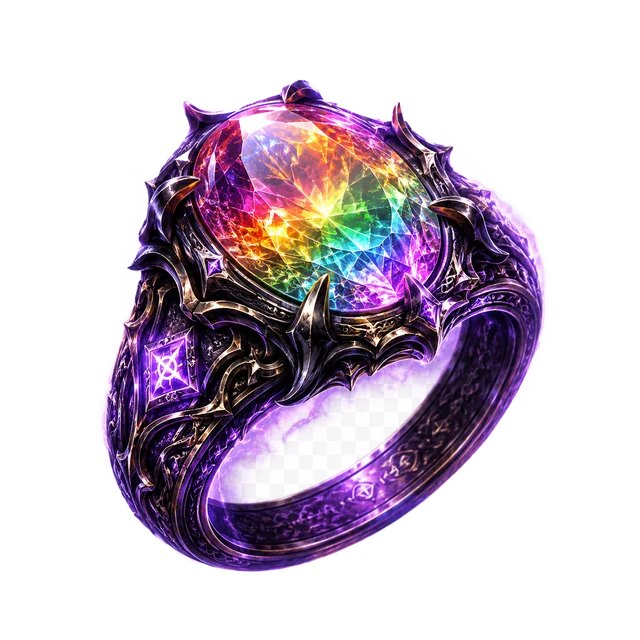
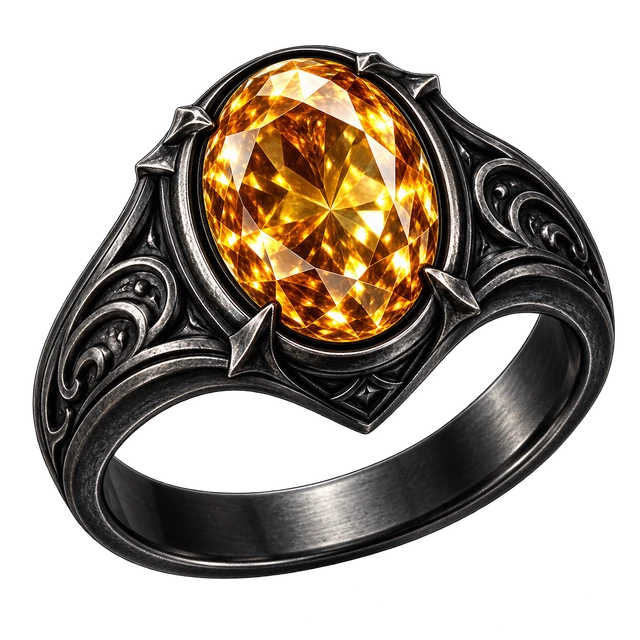
1.4.0: Codex-Nachlieferung eingebaut (Ereigniskarte Eingebung, neuer Göttenstein-Ring), Abdeckung 213/213

diff --git a/design/1.4.0-assets-final.md b/design/1.4.0-assets-final.md
@@ -411,7 +411,7 @@ gk_fel_ring · gk_king_greatsword · gk_king_shortbow · gk_king_scepter · gk_k
 - [x] B Raid-Gegner (15)
 - [x] A gk_room_5, gobkharaz
 - [x] F Rest (27)
-- [ ] H inspiration
+- [x] H inspiration (Nachlieferung 24.10., neuer Prompt ohne Waffe)
 - [x] K work_crate_i … work_crate_v
 - [x] P npc_brakka, npc_torvald, npc_grumm, npc_nessa, npc_dashk, npc_merrit, npc_odo, npc_tamsin, npc_kell,
       npc_jorun, npc_caedren, npc_sefra, npc_orin, npc_wenna, npc_ilvara
@@ -422,3 +422,7 @@ V-Staging62: [Galerie](../CODEX/assets/1.4.0-final-2026-10-24/V/REVIEW.html) · 
 
 <!-- codex:2026-10-24T10:21:17.034Z -->
 Restlieferung 127/128 Motive: [Gesamtgalerie](../CODEX/assets/1.4.0-final-2026-10-24/REVIEW.html) · [Lieferbericht](../CODEX/assets/1.4.0-final-2026-10-24/LIEFERUNG.md). H / inspiration bleibt offen: sechs Built-in-Aufrufe (fünf Root, ein unabhängiger Produzent) wurden vom Bilddienst ohne Ausgabe als output moderation_blocked / violence zurückgewiesen. Keine Ersatzgrafik, keine API/CLI-Umgehung und kein leeres Liefer-ZIP.
+
+
+Nachlieferung 24.10. (`CODEX/assets/1.4.0-nachlieferung-2026-10-24`): `inspiration` und Ersatz `godgem_ring` (goldener Göttenstein,
+echtes Alpha, kein Leuchten) eingebaut. Abdeckung 213/213. Alter Ring: `design/asset-archive/godgem_ring-bis-1.3.webp`.
